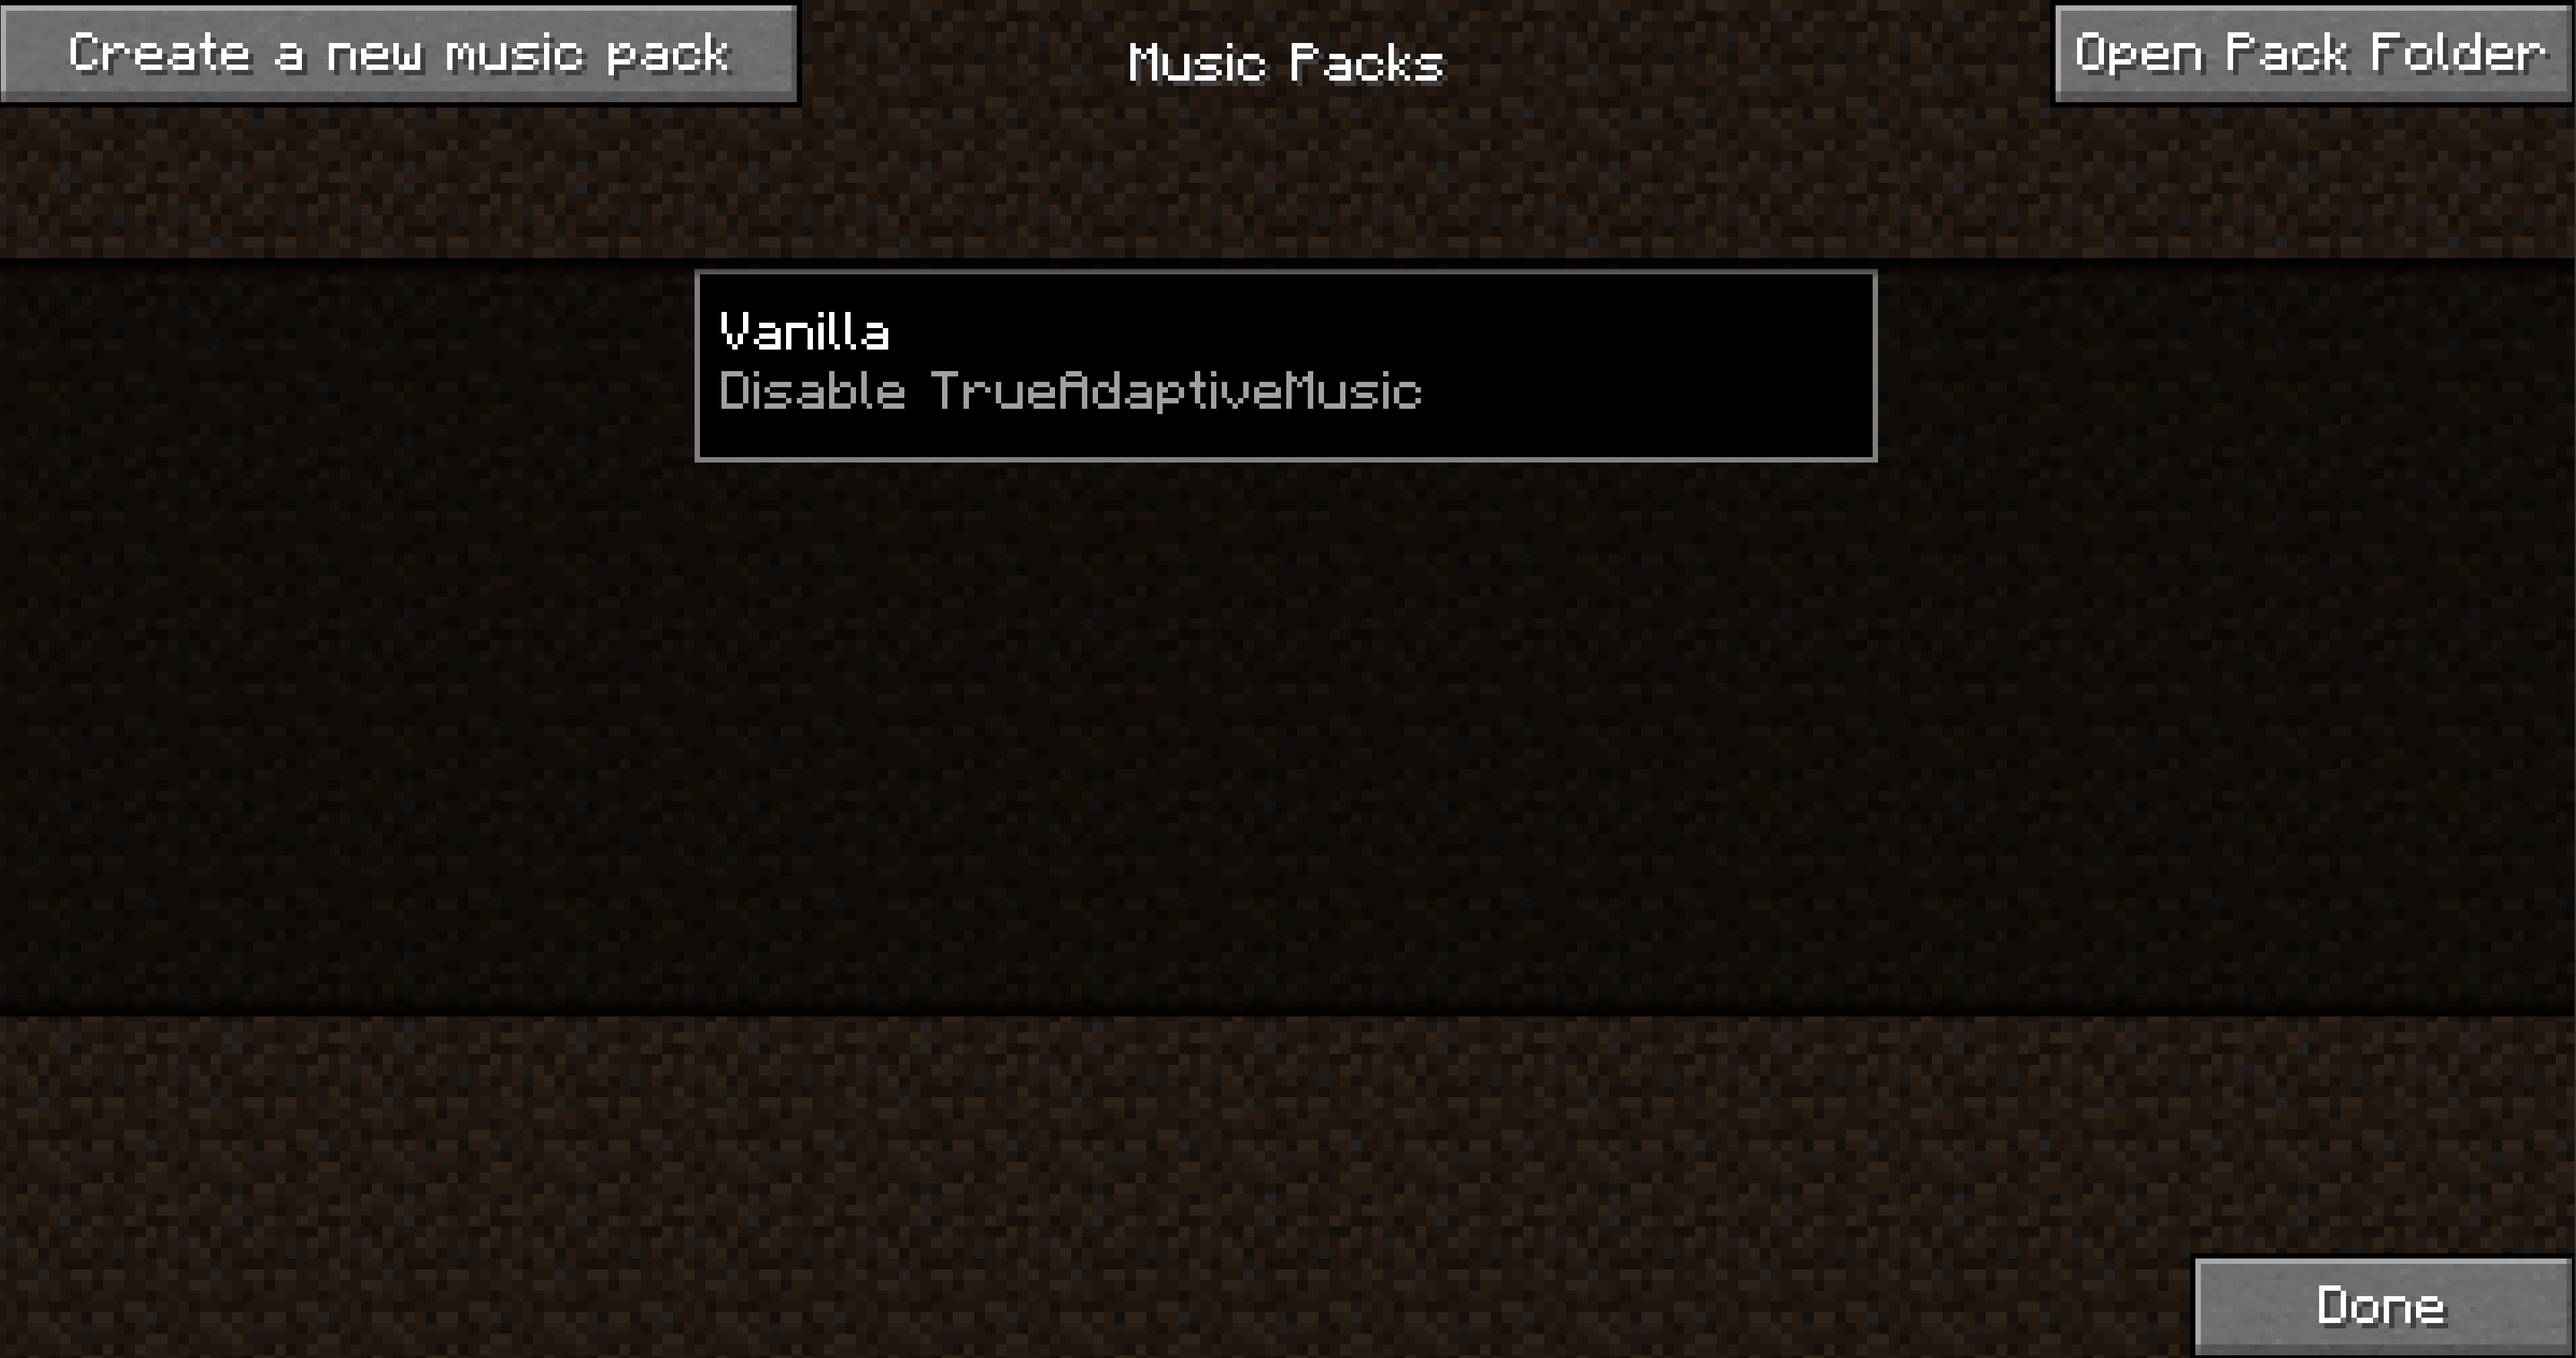
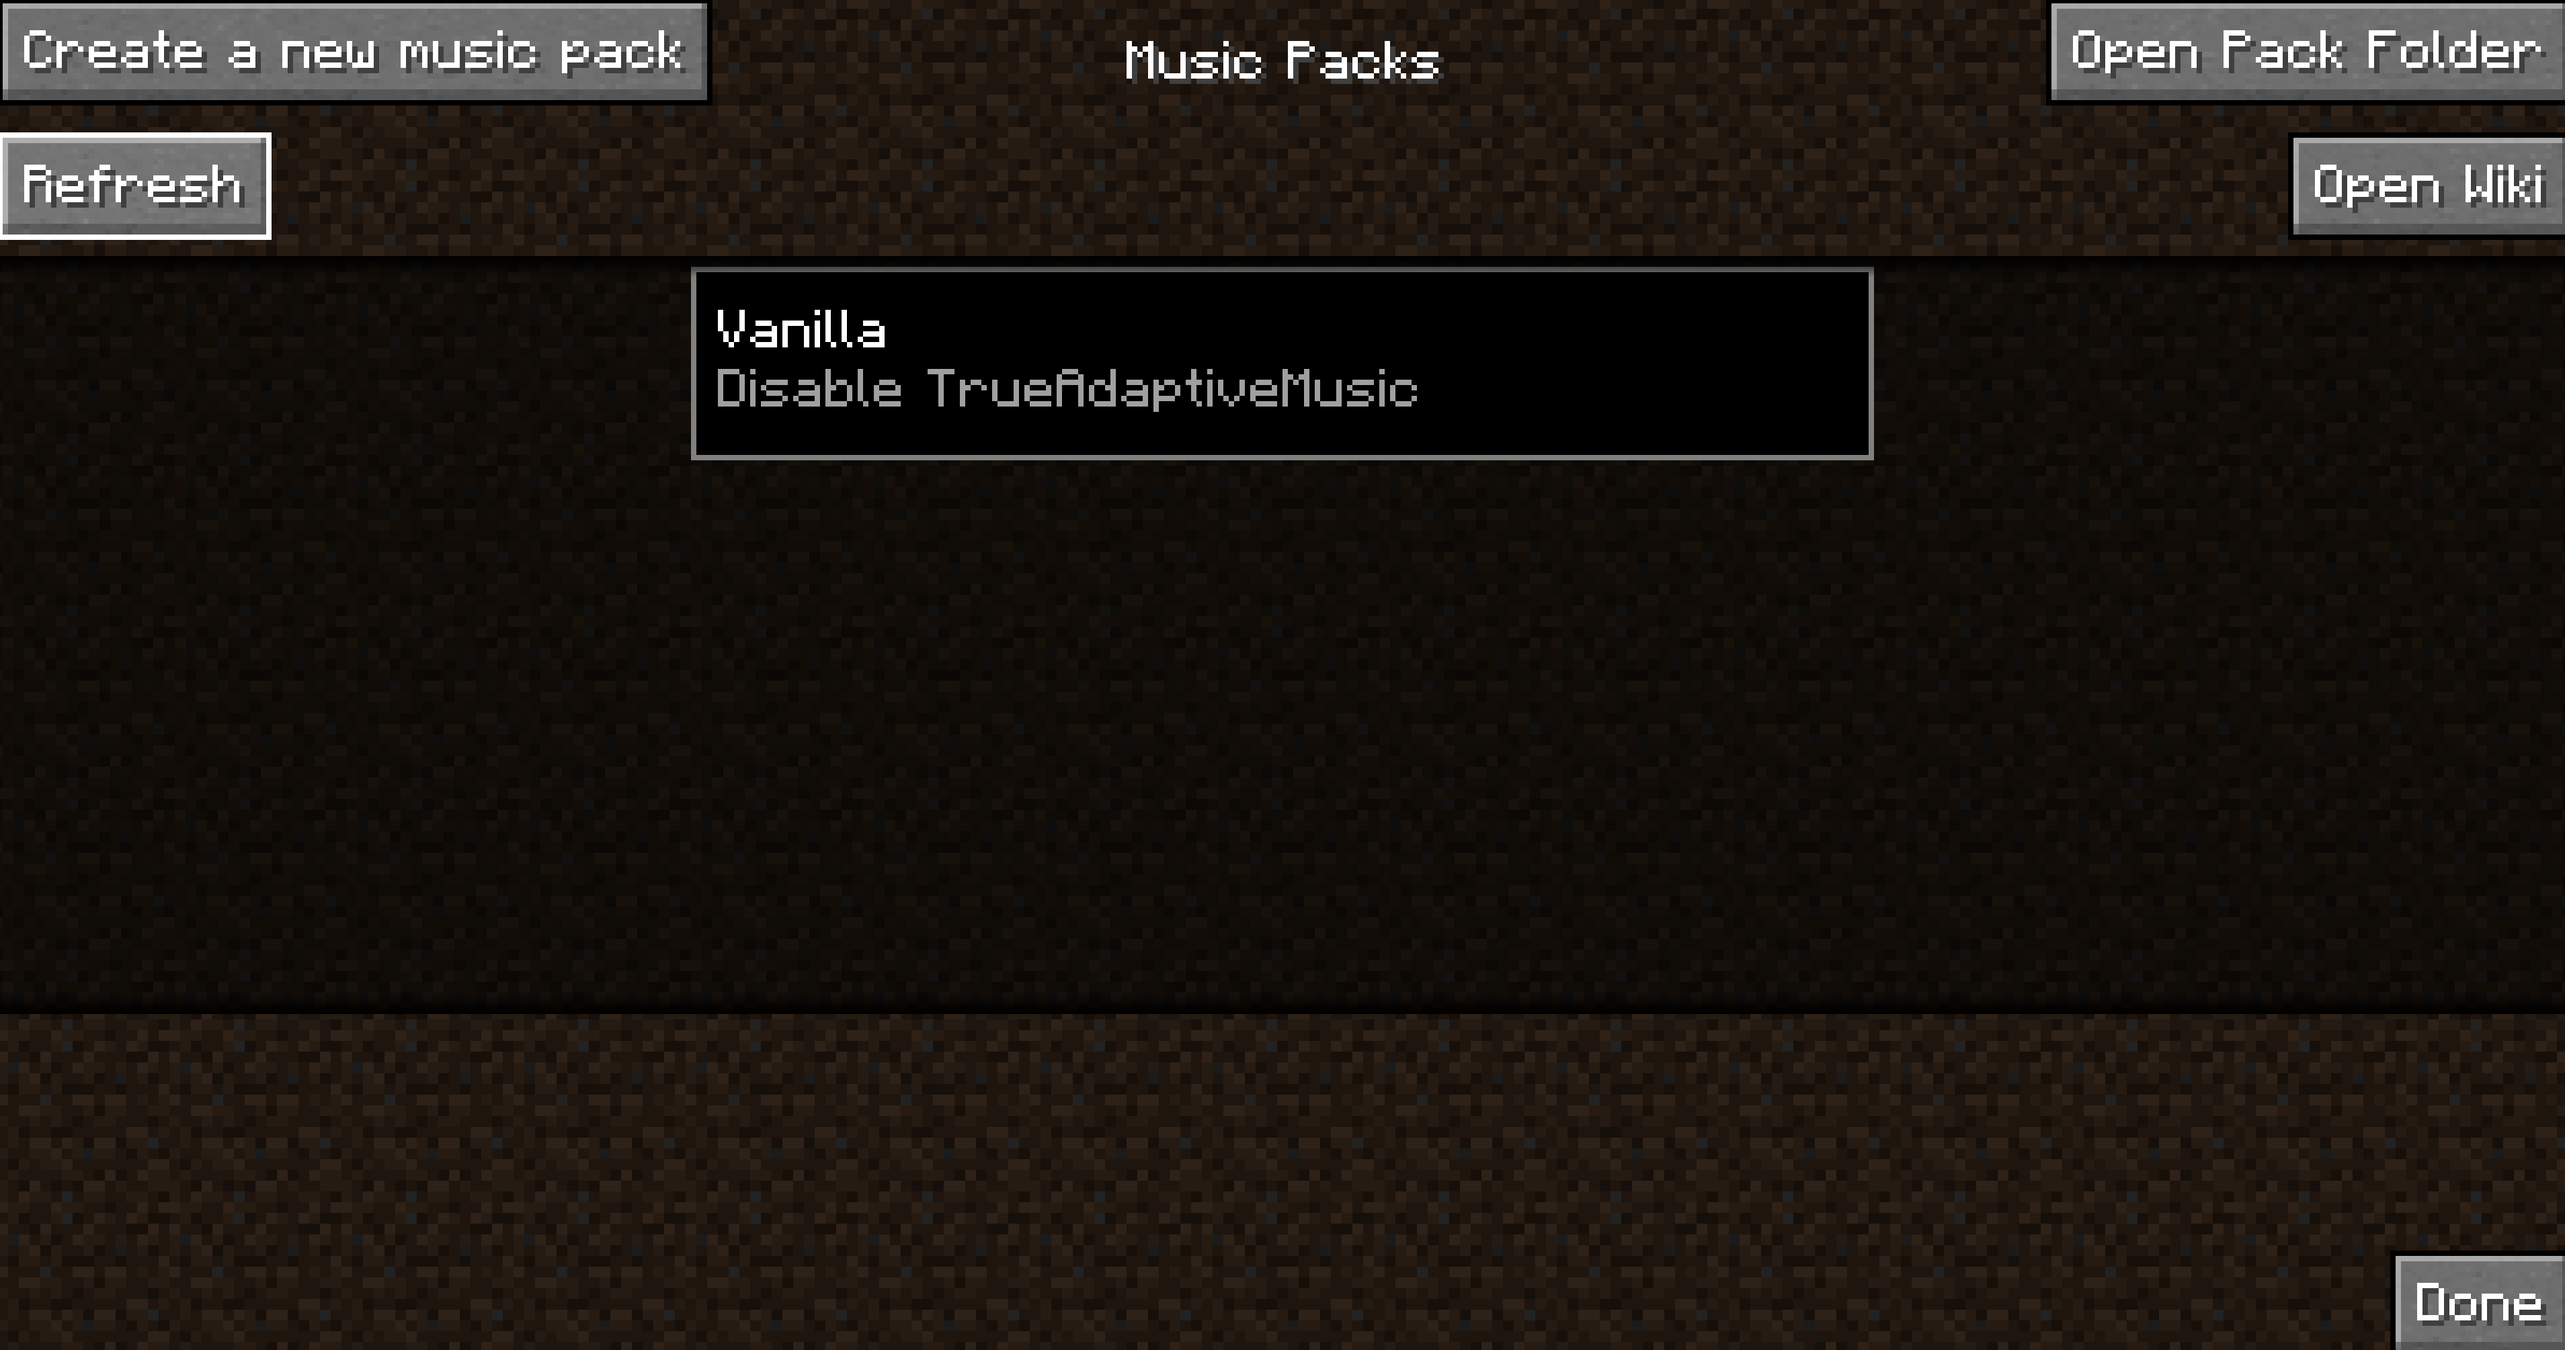
Clean up docs a bit (#97)

diff --git a/trueadaptivemusicdocs/docs/MusicPacks/MusicPack Structure.md b/trueadaptivemusicdocs/docs/MusicPacks/MusicPack Structure.md
@@ -33,27 +33,22 @@ The structure of the rules is recursive, with one object called a PredicateNode.
 
 For example:
 
-<b>rules.json</b>
-```json
+```json title="rules.json"
 {
-    // The top-level node is always of type "root"
-    "type": "root",
-
-    // You can use audio files from assets/ and minecraft sound events that start with "music."
-    "musicPath": ["minecraft:music.overworld.meadow", "cool_song.ogg"],
-
-    // And now this node's children, which themselves have the same structure
-    "children": [
+    "type": "root", //(1)!
+    "musicPath": ["minecraft:music.overworld.meadow", "cool_song.ogg"], //(2)!
+    "children": [ //(3)!
         {
             "type": "dimension",
-
-            // Some predicates require an id field.
-            // This predicate will only be true when the player is in the overworld dimension
-            "id": "minecraft:overworld",
-            
-            // Since music path is empty, no music will play when this predicate is true
-            "musicPath": []
+            "id": "minecraft:overworld", //(4)!
+            "musicPath": [] //(5)!
         }
     ]
 }
 ```
+
+1. The top-level node is always of type "root"
+2. You can use audio files from assets/ and minecraft sound events that start with "music."
+3. And now this node's children, which themselves have the same structure
+4. Some predicates require extra parameters, such as an id field. This predicate will only be true when the player is in the overworld dimension
+5. Since music path is empty, no music will play when this predicate is true

diff --git a/trueadaptivemusicdocs/docs/index.md b/trueadaptivemusicdocs/docs/index.md
@@ -16,13 +16,17 @@ If you want to create a MusicPack, now you can go to [Quick Start: For MusicPack
 ## Quick Start: For MusicPack Users
 Hit "Open Pack Folder" to reveal the folder where MusicPacks are stored. This will be the <b>trueadaptivemusicpacks</b> folder, which is generated inside of your Minecraft's installation root (the same folder where you see resourcepacks) the first time you start up Minecraft with the mod.
 
-Throw your .zip or directory file into this folder, then hit "done" and come back, and voila! You'll see it show up on this page.
+Throw your .zip or directory file into this folder, then hit "Refresh", and voila! You'll see it show up on this page.
 
 ![main_menu_with_pack](main_menu_with_pack.png)
 
-Now just click on your newly loaded pack and (assuming there is custom title screen or root music), you should immediately notice the difference! Have Fun ;)
+Now just click on your newly loaded pack and (assuming there is custom title screen or root music), you should immediately notice the difference! Have Fun :wink:
 
 ## Quick Start: For MusicPack Creators
+!!! warning
+
+    MusicPack Creating/Editing is only available for versions 1.20+. All MusicPacks made in any version will still be compatible with other versions.
+
 ### Creating new a MusicPack
 So you want to create a MusicPack? First of all, thank you! If you have any creations you are proud of by the end of this I encourage you to share! Now, let's get started.
 
